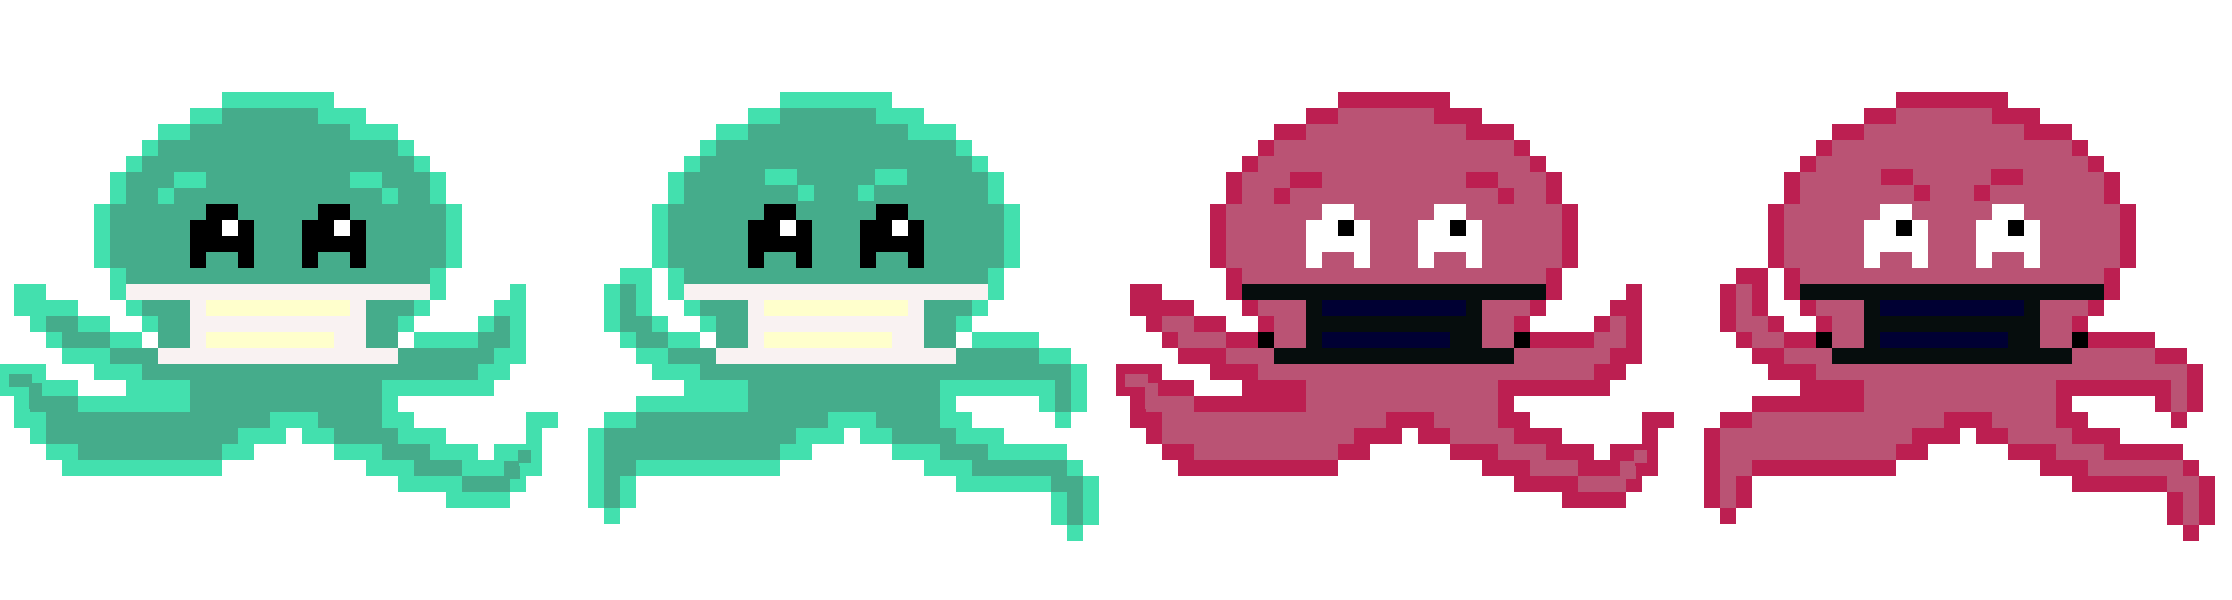
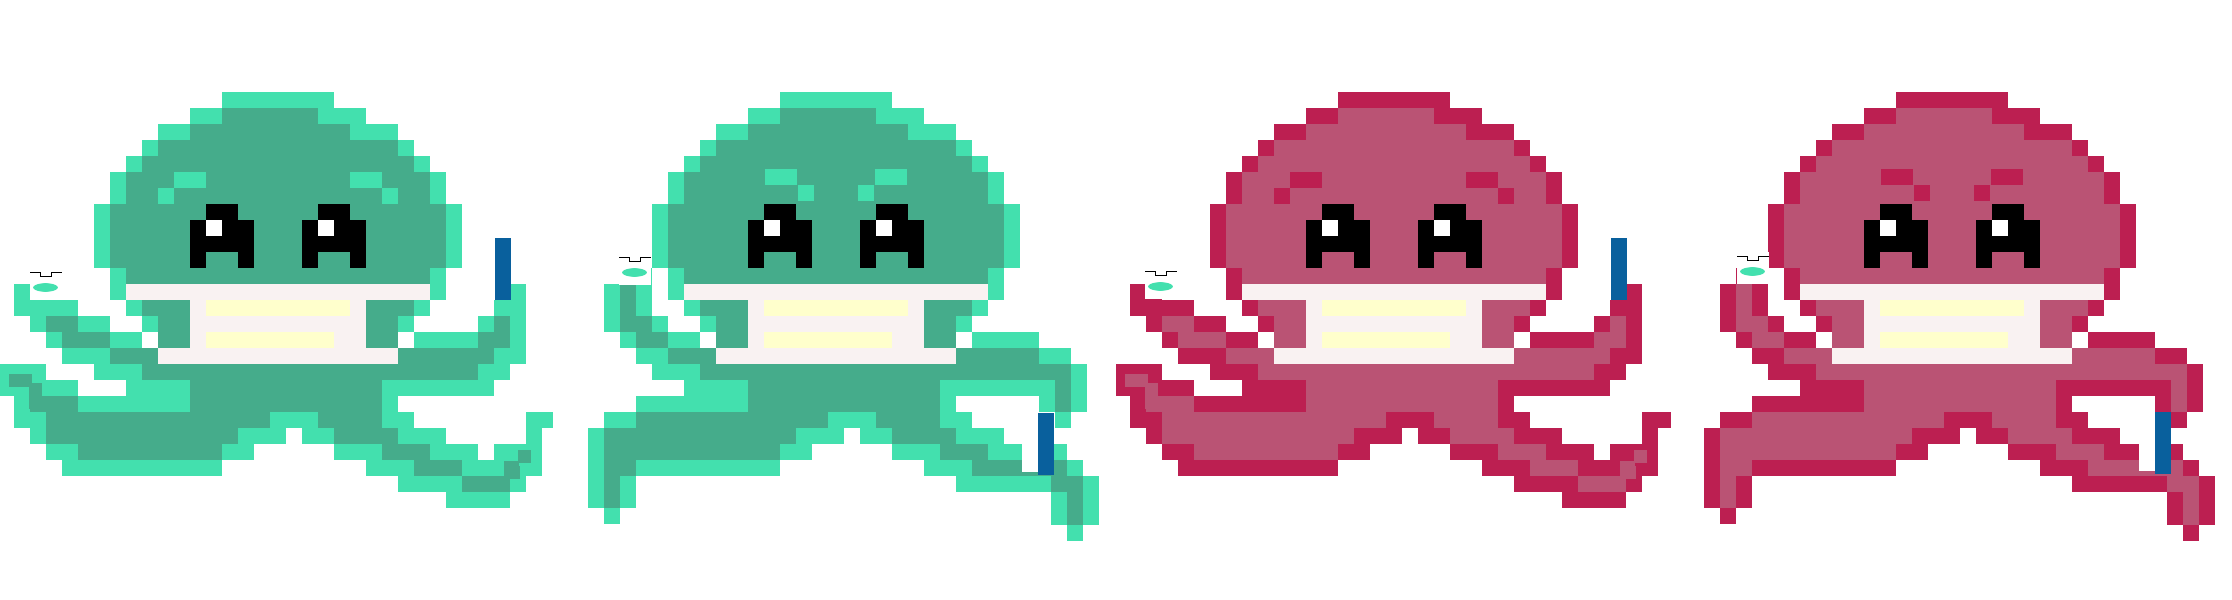
add octopus behavior

diff --git a/js/prefabs/Boss.js b/js/prefabs/Boss.js
@@ -2,13 +2,17 @@ var SaveTheDate = SaveTheDate || {};
 
 SaveTheDate.Boss = function(game, x, y, type, health) {
   Phaser.Sprite.call(this, game, x, y, type);
-
+  this.isPaused = false;
   this.category = 'boss';
+  if(type === 'doctopus'){
+    this.scale.setTo(0.8);
+  }
   this.anchor.setTo(0.5);
   this.checkWorldBounds = true;
   this.health = 20;
   this.bossType = type;
   console.log(this.bossType);
+  this.animations.add('still', [0], 1, true)
   this.animations.add('walk', [0,1], 3, true);
   this.animations.add('damaged', [2,3], 3, false);
   this.animations.add('blink', [0, 4, 0, 4], 2, false);
@@ -98,7 +102,7 @@ SaveTheDate.Boss.prototype.update = function() {
     }
   }
 
-  if(this.bossType === 'judge'  || this.bossType === 'doctopus'){
+  if(this.bossType === 'judge'){
     if(bossY < 300){
       this.body.velocity.y = 300;
     } else if(bossY > 800){
@@ -106,6 +110,18 @@ SaveTheDate.Boss.prototype.update = function() {
     }
     if(this.bossState === 'start'){
       this.gavelLoop = this.game.time.events.loop(1500, createGavel, this);
+      this.bossState = 'fire';
+    }
+  }
+
+  if(this.bossType === 'doctopus'){
+    if(bossY < 300 && !this.isPaused){
+      this.body.velocity.y = 300;
+    } else if(bossY > 800 && !this.isPaused){
+      this.body.velocity.y = -300;
+    }
+    if(this.bossState === 'start'){
+      this.gavelLoop = this.game.time.events.loop(4000, createFloss, this);
       this.bossState = 'fire';
     }
   }
@@ -118,4 +134,18 @@ let createGavel = function() {
   let degrees = radians * (180/Math.PI);
   let speed = ((20 - this.health) * -50) + -800;
   this.game.physics.arcade.velocityFromAngle(degrees, speed, gavel.body.velocity);
+};
+
+let createFloss = function() {
+  let floss = new SaveTheDate.BossBullet(this.game, this.x - 770, this.y - 35, 'floss');
+  this.isPaused = true;
+  this.body.velocity.y = 0;
+  SaveTheDate.GameState.bossBullets.add(floss);
+  this.play('still');
+  setTimeout(() => {
+    this.isPaused = false;
+    Math.floor(Math.random() * 2) === 0 ? this.body.velocity.y = -300 : this.body.velocity.y = 300;
+    SaveTheDate.GameState.bossBullets.remove(floss);
+    this.play('walk');
+  }, 2000)
 };

diff --git a/js/states/GameState.js b/js/states/GameState.js
@@ -3,7 +3,7 @@ var SaveTheDate = SaveTheDate || {};
 SaveTheDate.GameState = {
 
   create: function() {
-    this.PLAYER_SPEED = 500;
+    this.PLAYER_SPEED = 650;
     this.FIREBALL_SPEED = 2000;
     this.UHAUL_SPEED = -200;
     this.BACKGROUND_SPEED = -100;
@@ -169,10 +169,13 @@ SaveTheDate.GameState = {
   damagePlayer: function(player, enemy) {
     let enemyType = enemy.category;
     let spacing;
+    console.log(enemy);
     if(enemyType === 'enemy'){
       spacing = 80;
+    } else if(enemyType === 'bossBullet' && enemy.name === 'floss'){
+      spacing =  50;
     } else if(enemyType === 'bossBullet') {
-      spacing = 80;
+      spacing = 100;
     } else if(enemyType === 'boss') {
       spacing = 160;
     } else {
@@ -181,8 +184,10 @@ SaveTheDate.GameState = {
     let invincibleTime = enemyType === 'enemy' ? 1000 : 2000;
     let yDiff = Math.abs(player.body.center.y - enemy.body.center.y);
     let xDiff = Math.abs(player.body.center.x - enemy.body.center.x);
+    if(enemy.name === "floss"){
+      xDiff = 0;
+    }
     if (!this.invincible && yDiff < spacing && xDiff < spacing) {
-      console.log(yDiff, xDiff, spacing);
       if (this.energy === 3) {
         this.battery3.kill();
       } else if (this.energy === 2) {

diff --git a/js/states/PreloadState.js b/js/states/PreloadState.js
@@ -31,6 +31,8 @@ SaveTheDate.PreloadState = {
     this.load.spritesheet('tooth','assets/images/tooth.png', 150, 180, 6, 0, 0);
     this.load.spritesheet('fireball', 'assets/images/fireball.png', 40, 40, 4, 0, 0);
     this.load.spritesheet('doctopus', 'assets/images/doctopus.png', 558, 600, 4, 0, 0);
+    this.load.spritesheet('floss','assets/images/floss.png', 1200, 100, 2, 0, 0);
+
 
     this.load.audio('orchestra', ['assets/audio/JPEinstrumental.mp3', 'assets/audio/JPEinstrumental.ogg']);
     this.load.audio('highScore', ['assets/audio/high_score.wav']);

diff --git a/js/prefabs/BossBullet.js b/js/prefabs/BossBullet.js
@@ -8,7 +8,15 @@ SaveTheDate.BossBullet = function(game, x, y, type) {
   this.checkWorldBounds = true;
   this.outOfBoundsKill = true;
   this.animations.add('spin', [0,1,2,3], 7, true);
-  this.play('spin');
+  this.animations.add('lasso', [0,1], 5, true);
+  this.name = type;
+
+  if(type === 'bossGavel'){
+    this.play('spin');
+  }
+  else if (type === 'floss'){
+    this.play('lasso');
+  }
 };
 
 SaveTheDate.BossBullet.prototype = Object.create(Phaser.Sprite.prototype);
